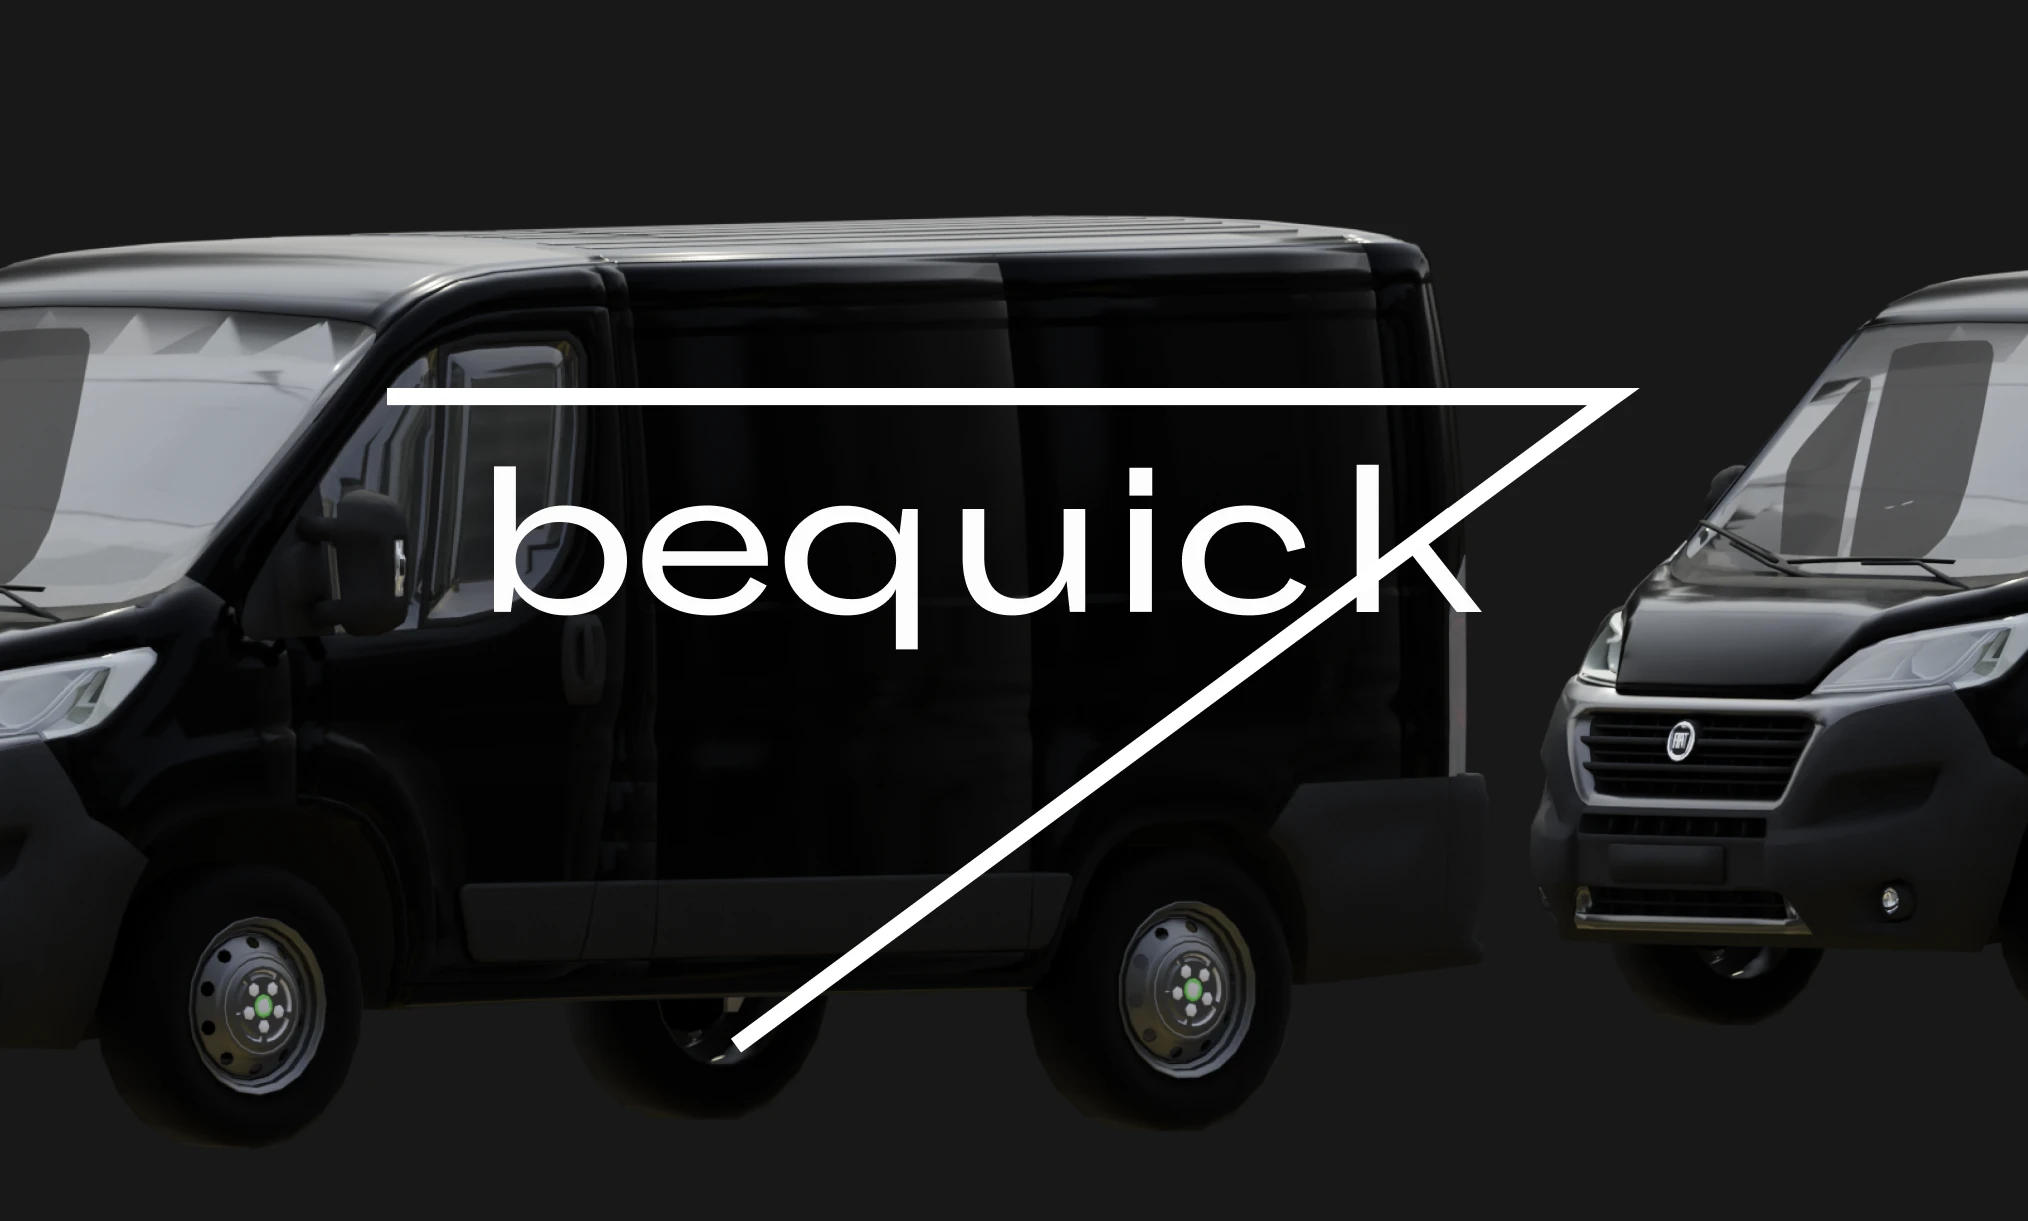
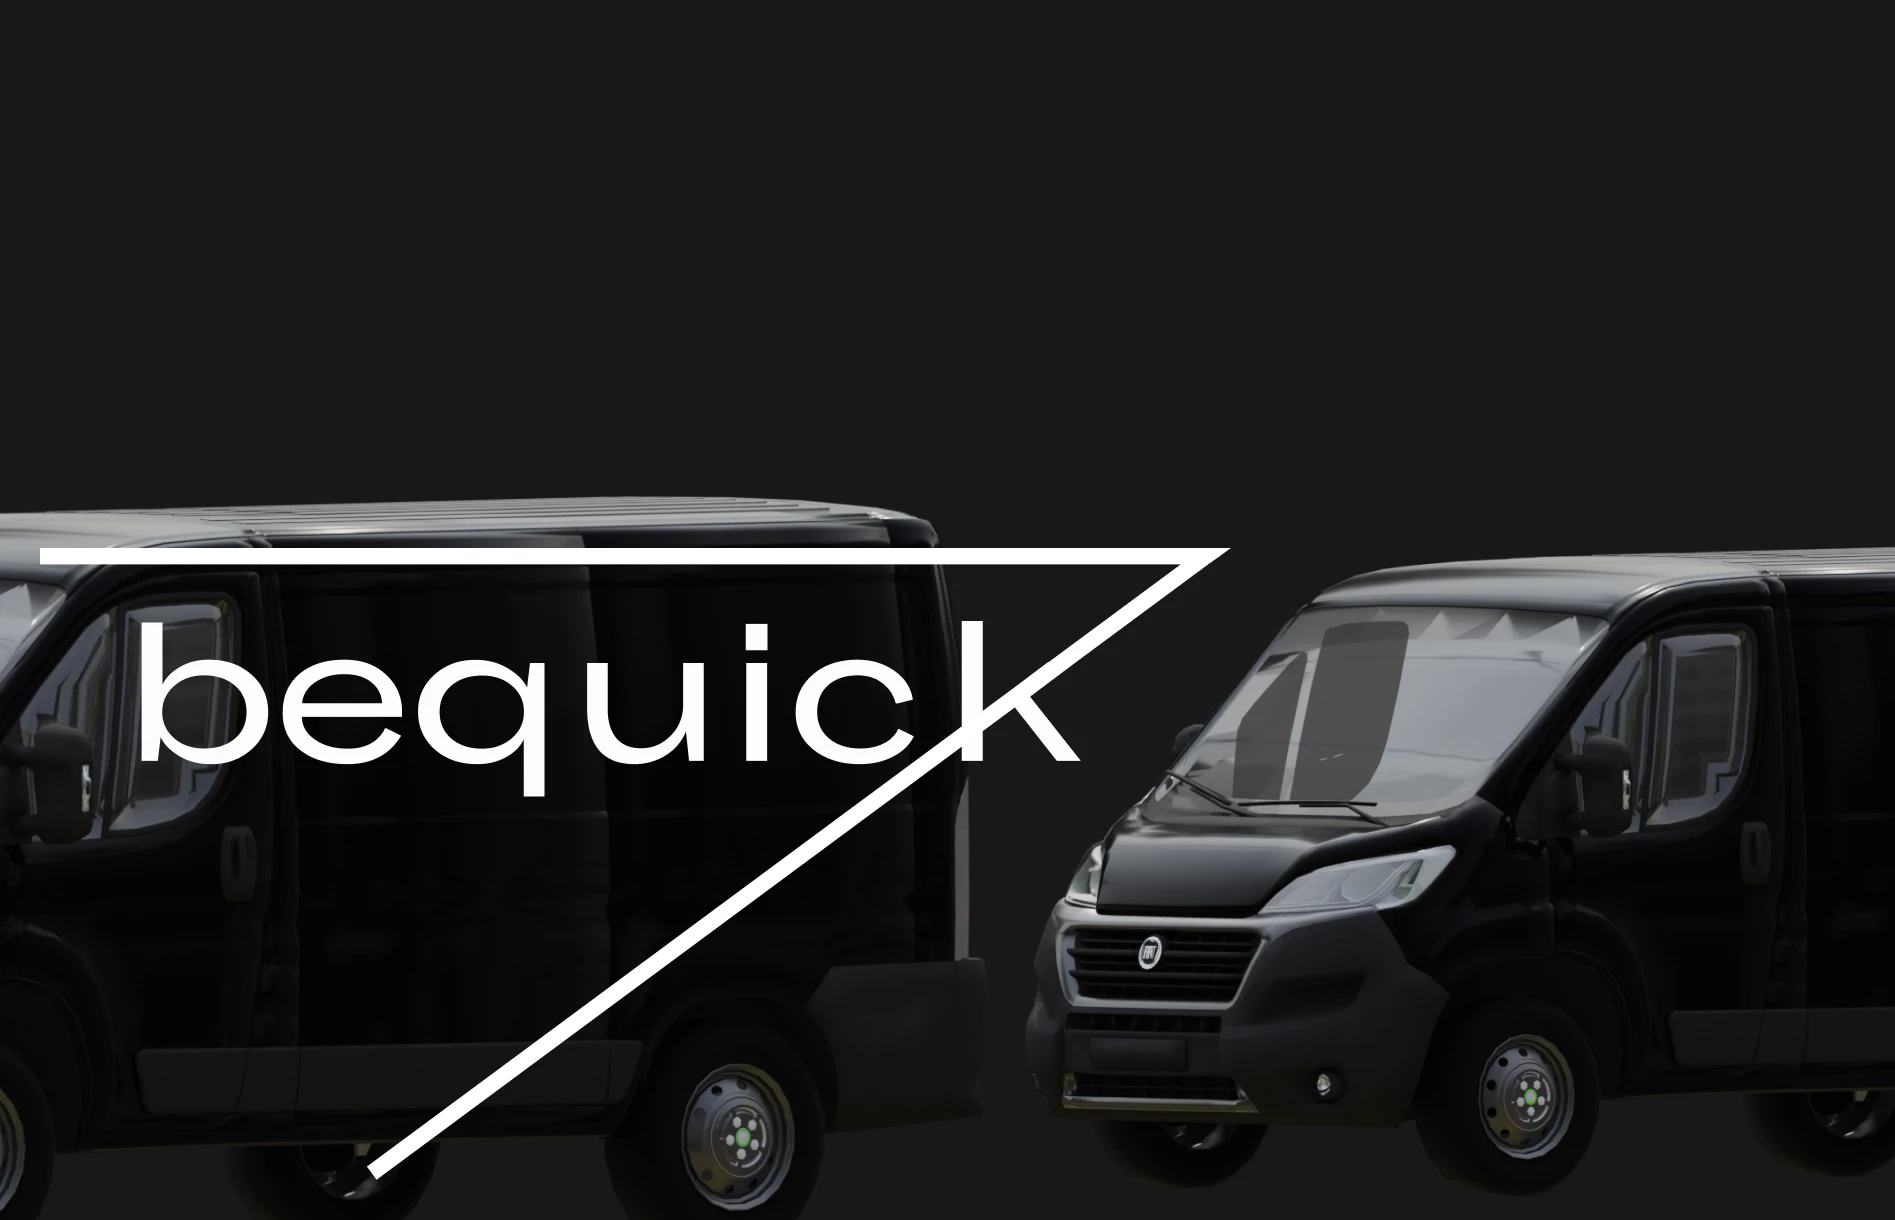
fix hotline case description padding, add cases background images on main page

diff --git a/src/app/pages/main/cases-list/cases-list.component.scss b/src/app/pages/main/cases-list/cases-list.component.scss
@@ -21,6 +21,14 @@
     margin-top: 2.0833333333333335vw;
     gap: 0.5208333333333334vw;
 
+    .project,
+    .mobile-project {
+      background-position: center;
+      background-size: 100%;
+      background-clip: padding-box;
+      background-repeat: no-repeat;
+    }
+
     .project {
       width: 98.95833333333333vw;
       height: 31.666666666666668vw;
@@ -140,10 +148,6 @@
       height: 31vw;
       background-color: #ddff20;
       background-image: url(/assets/images/projects/case-preview-hotline-2.webp);
-      background-position: center;
-      background-size: 100%;
-      background-clip: padding-box;
-      background-repeat: no-repeat;
 
       a {
         .project-title p {
@@ -172,6 +176,7 @@
 
     .bequick {
       background-color: #181818;
+      background-image: url(/assets/images/projects/case-preview-bequick.webp);
 
       a {
         .project-title {
@@ -199,16 +204,11 @@
 
     .pn {
       background-color: #fcfcfc;
+      background-image: url(/assets/images/projects/case-preview-pn.webp);
 
       a {
         .project-title p {
           color: rgba(32, 31, 30, 1);
-        }
-
-        .project-preview {
-          align-self: flex-end;
-          width: 25vw;
-          height: 22.5vw;
         }
       }
     }
@@ -361,16 +361,6 @@
             }
           }
 
-          .project-preview {
-            height: 100%;
-            margin: 4.615384615384615vw 2.5641025641025643vw;
-
-            img {
-              width: 100%;
-              height: 100%;
-            }
-          }
-
           .bottom {
             display: flex;
             margin-top: auto;
@@ -424,10 +414,6 @@
       .mobile-hotline {
         background-color: #ddff20;
         background-image: url(/assets/images/projects/case-preview-hotline-mobile.webp);
-        background-position: center;
-        background-size: 100%;
-        background-clip: padding-box;
-        background-repeat: no-repeat;
 
         a {
           .bottom .project-case-btn .wrapper {
@@ -443,6 +429,7 @@
 
       .mobile-bequick {
         background-color: #201f1e;
+        background-image: url(/assets/images/projects/case-preview-bequick-mobile.webp);
 
         a {
           .project-title {
@@ -489,6 +476,7 @@
 
       .mobile-pn {
         background-color: #ffffff;
+        background-image: url(/assets/images/projects/case-preview-pn-mobile.webp);
 
         .bottom {
           .project-description {

diff --git a/src/app/pages/main/cases-list/cases-list.component.html b/src/app/pages/main/cases-list/cases-list.component.html
@@ -49,6 +49,7 @@
             И всё это за 12 недель!
           </p>
         </div>
+        <div class="project-preview"></div>
       </a>
     </div>
     <div
@@ -84,13 +85,7 @@
             крупнейшего застройщика <br />Санкт-Петербурга
           </p>
         </div>
-        <div class="project-preview">
-          <img
-            [src]="images.casePreviewPn.link"
-            [alt]="images.casePreviewPn.description"
-            draggable="false"
-          />
-        </div>
+        <div class="project-preview"></div>
       </a>
     </div>
     <div
@@ -180,9 +175,6 @@
             Недвижимость
           </p>
         </div>
-        <div class="project-preview">
-          <img [src]="images.casePreviewPn.link" [alt]="" draggable="false" />
-        </div>
         <div class="bottom">
           <div class="project-description">
             <p>
@@ -215,7 +207,6 @@
             <span>курьерская служба</span>
           </p>
         </div>
-        <div class="project-preview"></div>
         <div class="bottom">
           <div class="project-description">
             <p>

diff --git a/src/app/pages/main/cases-list/cases-list.component.ts b/src/app/pages/main/cases-list/cases-list.component.ts
@@ -1,9 +1,7 @@
 import { Component } from '@angular/core';
-
 import { IconList } from '@constants/icons.constants';
 import { ImageList } from '@constants/images.constants';
 import { MediaLink } from '@enums/link.enums';
-
 import { IntersectionService } from '@services/intersection.service';
 
 @Component({
